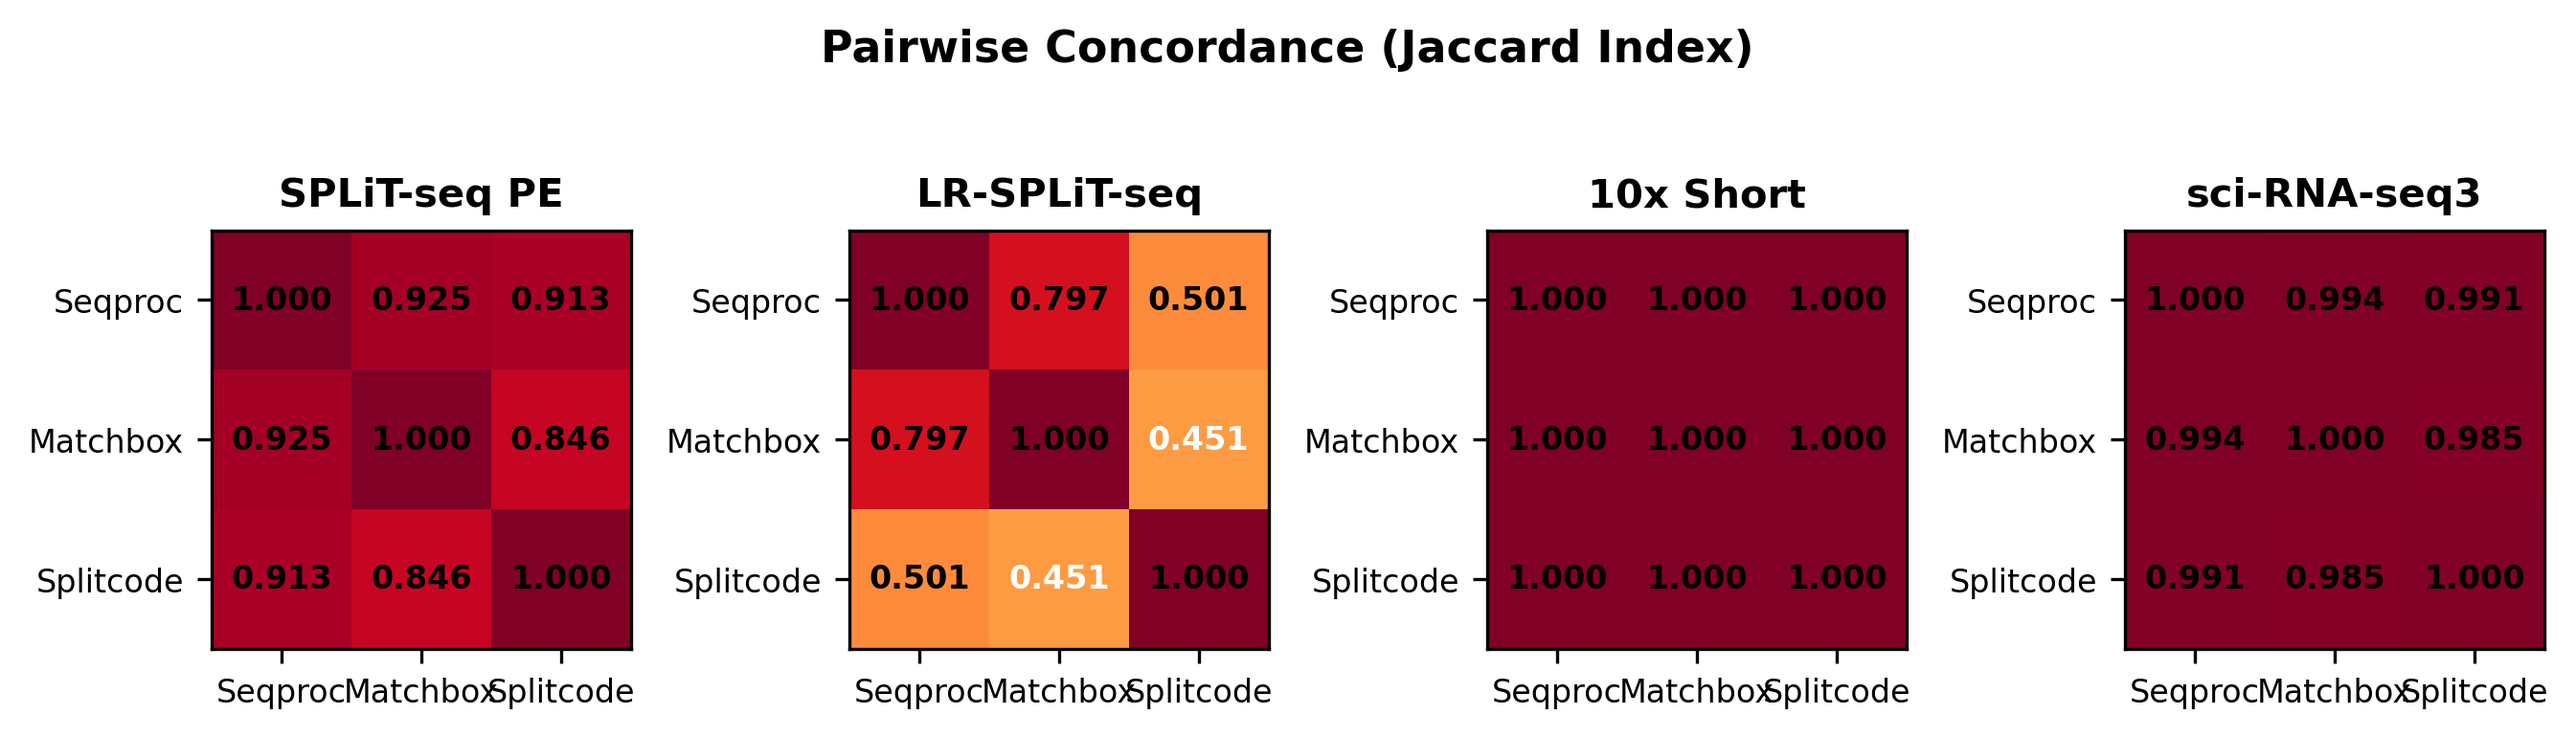
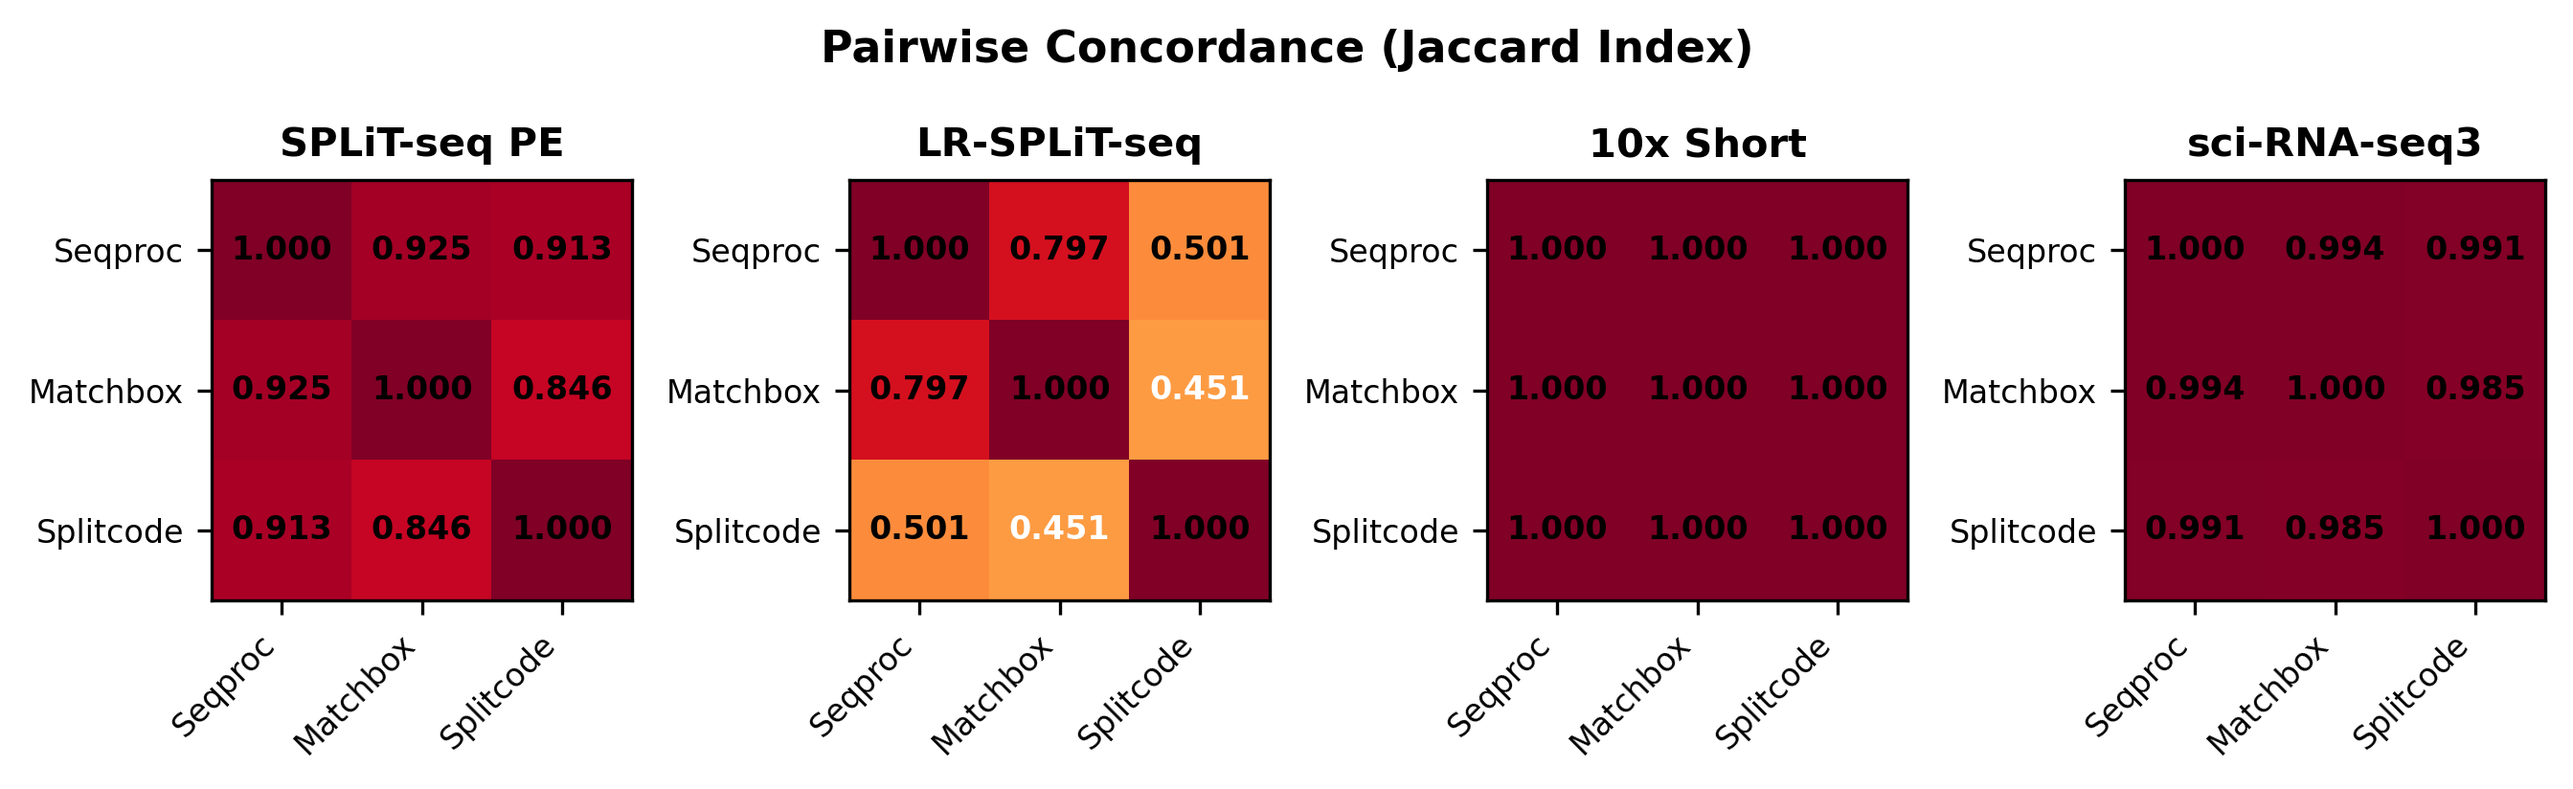
Fix concordance heatmap x-axis labels: rotate 45 degrees for readability

diff --git a/scripts/generate_figures.py b/scripts/generate_figures.py
@@ -138,7 +138,7 @@ def fig_concordance_heatmaps(concordance, output_dir):
 
         ax.set_xticks(range(3))
         ax.set_yticks(range(3))
-        ax.set_xticklabels([t.capitalize() for t in tools], fontsize=8)
+        ax.set_xticklabels([t.capitalize() for t in tools], fontsize=8, rotation=45, ha='right')
         ax.set_yticklabels([t.capitalize() for t in tools], fontsize=8)
         ax.set_title(DS_LABELS.get(ds_key, ds_key), fontsize=10, fontweight='bold')
 
